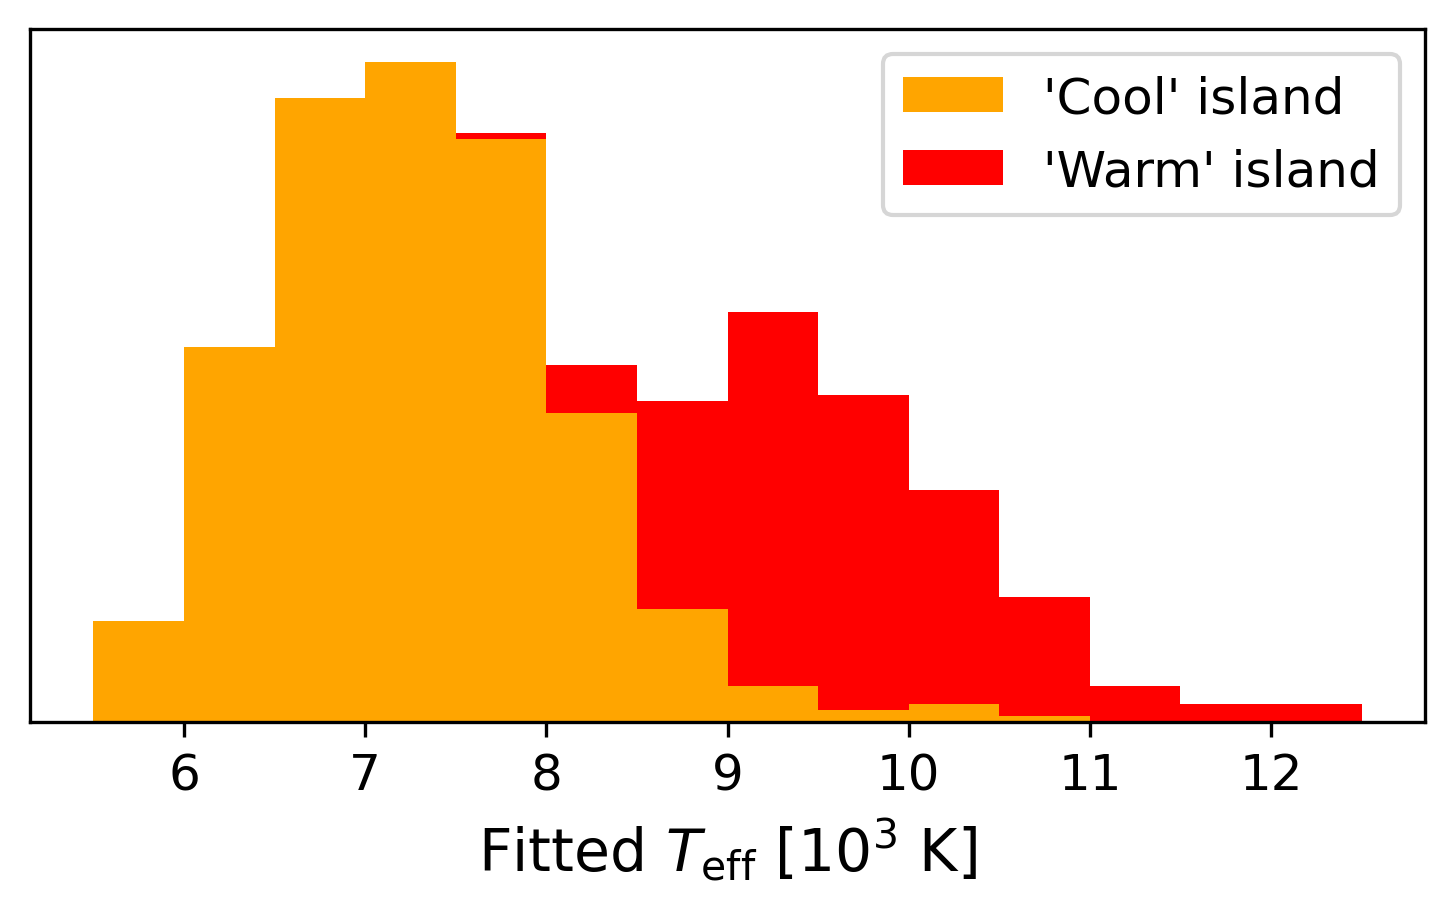
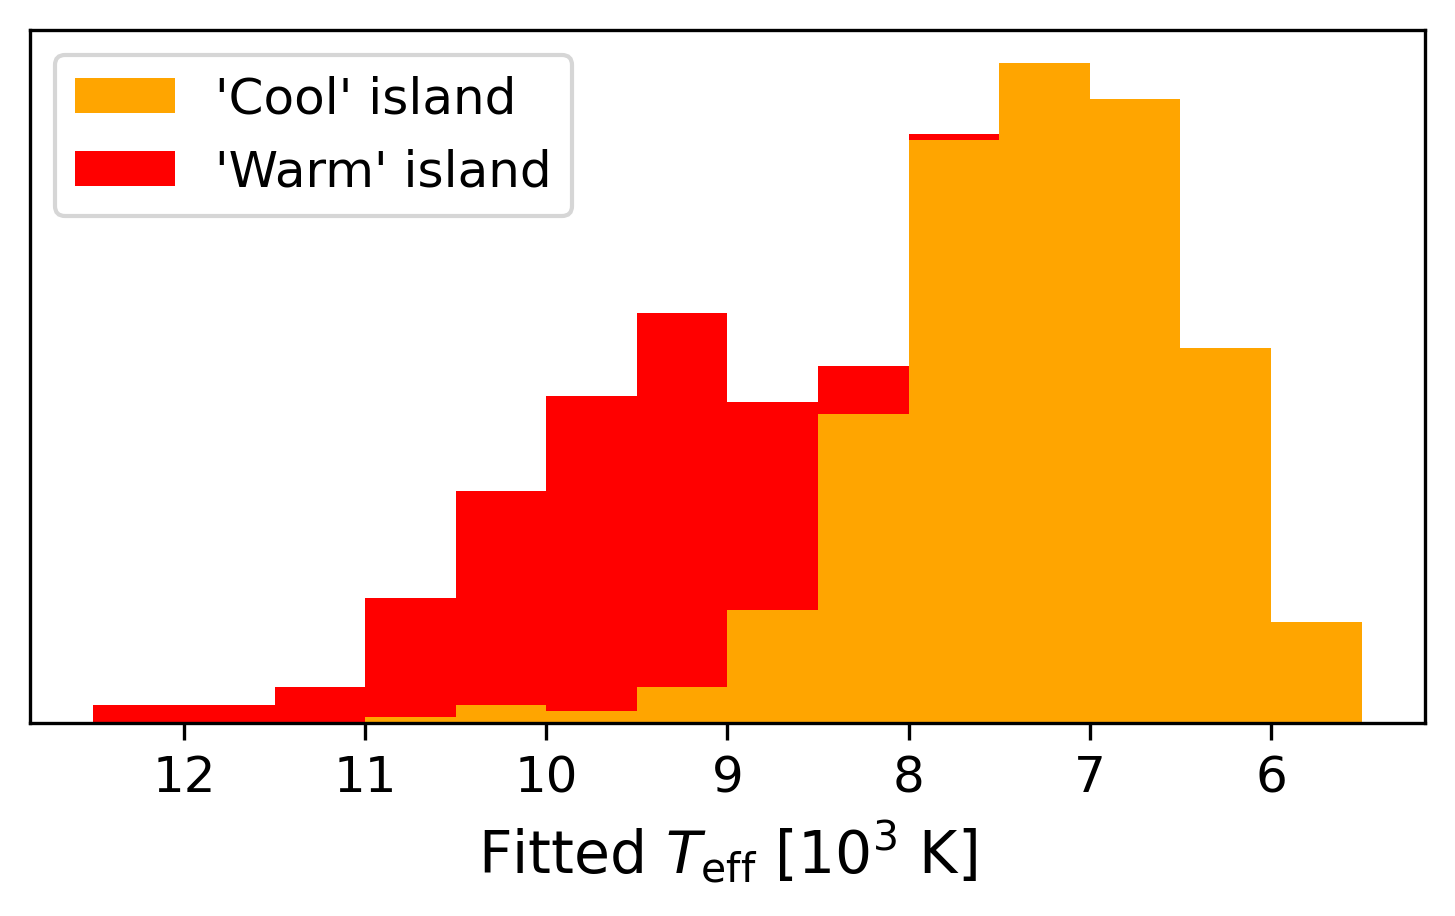
Swapping temperature axis on cluster comparison plot

diff --git a/src/scripts/create_fig_clustercomparison.py b/src/scripts/create_fig_clustercomparison.py
@@ -35,10 +35,11 @@ ax.hist(
     label=["'Cool' island", "'Warm' island"],
 )
 
-ax.set_xticks(BINS[1::2])
-ax.tick_params(labelsize=12)
 ax.set_xlabel(r"Fitted $T_\mathrm{eff}$ [$10^3~\text{K}$]", fontsize=14)
+ax.xaxis.set_inverted(True)
+ax.set_xticks(BINS[1::2])
 ax.set_yticks([])
+ax.tick_params(labelsize=12, length=4)
 ax.legend(fontsize=12)
 
 fg.savefig(
